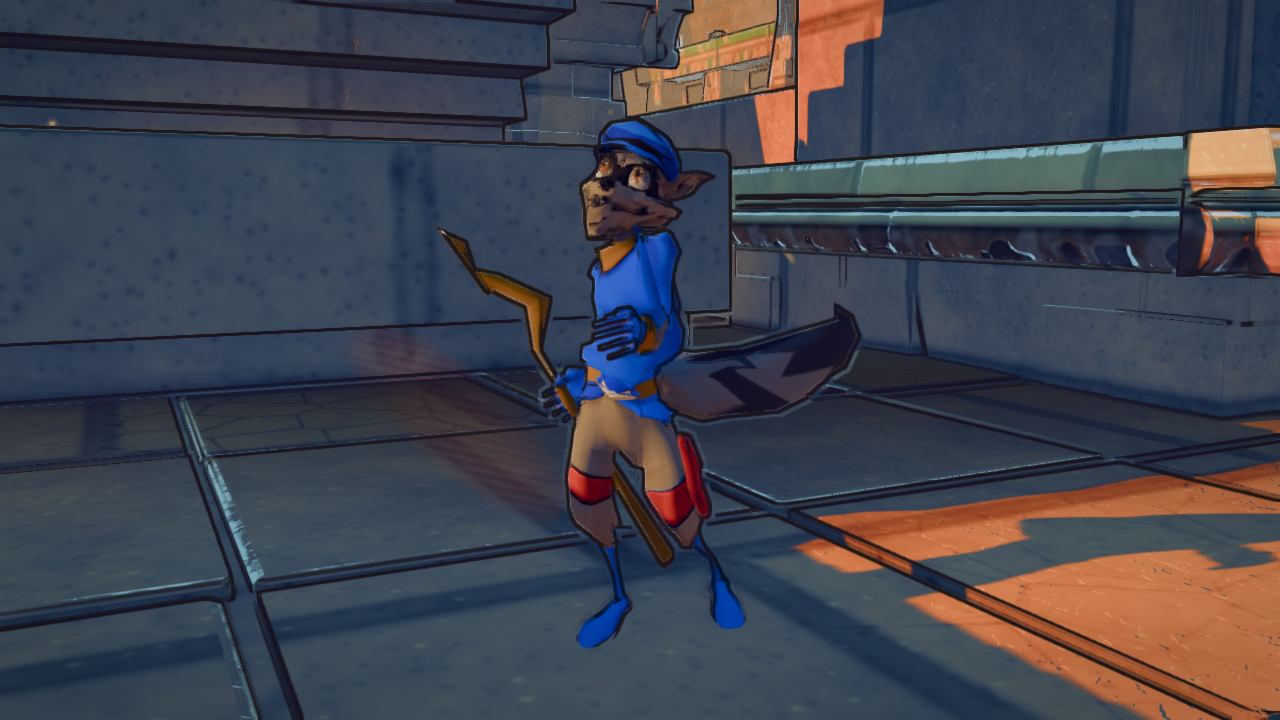
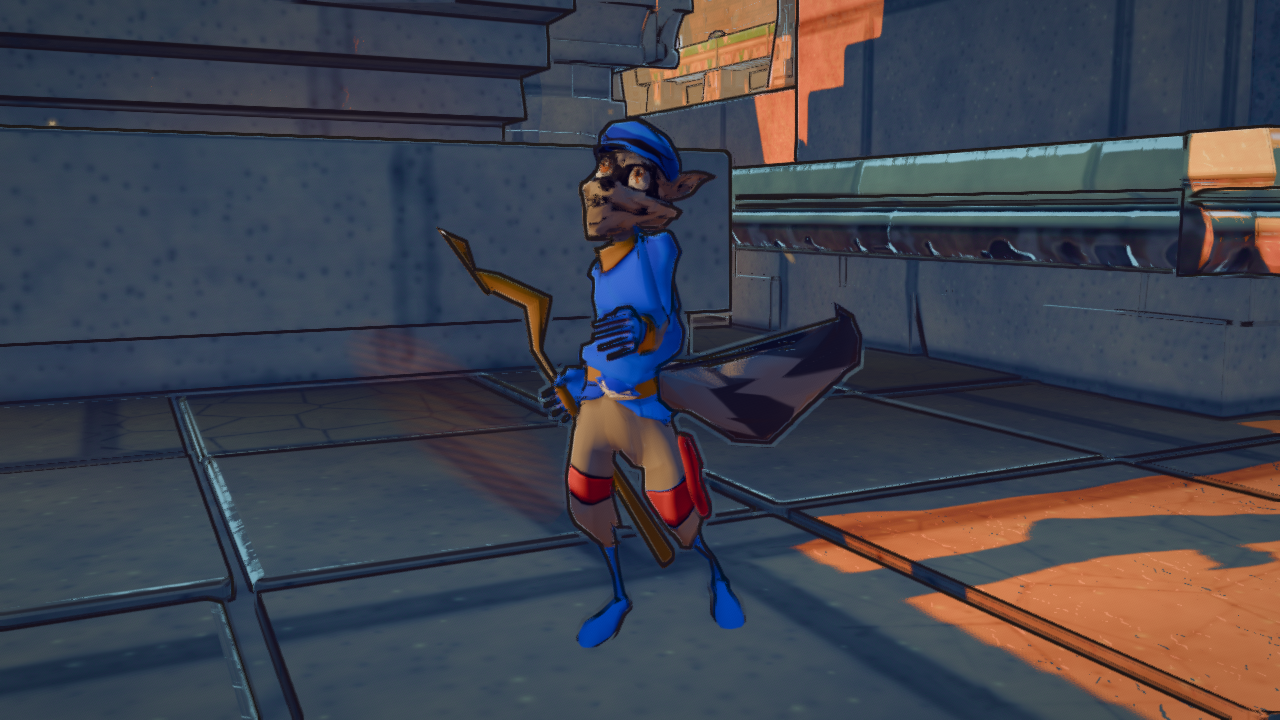
SlyModelDLRaw: the supplied model exactly as imported, textured (?char=dlraw)
The soft-tail weighting did not fix the animated tail either, which is the
condition set for stopping: put the textures on the model as supplied rather
than keep revising the altered one.

So this is a sibling, not a replacement - SlyModelDL keeps the full rigged
integration untouched, and neither approach costs the other.

What it does: the asset's geometry vertex for vertex, its authored normals,
its four textures. No re-posing out of the T-pose, no auto-skin, no weight
shaping, no normal recomputation. The only transform is feet-to-floor plus the
uniform scale to the world's 1.80m character height (the asset stands 1.853m,
so it is near identity, and a character the wrong size against the
architecture is not faithful in any useful sense).

The 16 non-finite triangles are still dropped, and that is recovery rather
than revision: OBJLoader manufactures those NaNs by resolving a face index
against its vertex array mid-parse, and one NaN vertex propagates through the
bounding box into every position, rendering nothing at all.

How it moves, stated plainly as a limitation: the full skeleton is built so
ANIMATION and Rig bind normally, but every vertex is rigid to hips, so the
model is carried by the character and never deformed by it. It holds its
authored T-pose. Arms out is how the asset is built, and bringing them down is
the alteration this file exists to avoid.

dlsmoke now takes the character token as an argument so both can be captured
[…]

Changed region(s): [[0.5, 0.4583, 0.6875, 0.6111], [0.7812, 0.7028, 0.8125, 0.7639], [0.9375, 0.7028, 0.9688, 0.7333]]

diff --git a/src/player/SlyModelDLRaw.js b/src/player/SlyModelDLRaw.js
@@ -1,0 +1,190 @@
+/**
+ * SlyModelDLRaw — the supplied Sly model EXACTLY as imported, textured, and otherwise untouched.
+ *
+ * Reached under `?char=dlraw`. This exists because six successive attempts to make the imported
+ * mesh deform correctly on the project's rig each failed on the tail, and the instruction was to
+ * stop revising the mesh and simply put the textures on the model as supplied.
+ *
+ * WHAT IS AND IS NOT DONE HERE. The geometry is the asset's own, vertex for vertex: no
+ * re-posing out of its T-pose, no auto-skin, no weight shaping, no normal recomputation — the
+ * authored normals are kept as they came. The only transform is the uniform scale that fits it to
+ * the world's 1.80 m character height, plus dropping the feet to the floor. Even the scale is
+ * near-identity (the asset stands 1.853 m), and it is applied because a character that is the
+ * wrong size against the architecture is not "faithful" in any useful sense.
+ *
+ * The 16 triangles with non-finite corners are still dropped. That is not a revision of the
+ * model: OBJLoader manufactures those NaNs by resolving a face index against its vertex array as
+ * it stands mid-parse, and a single NaN vertex propagates through the bounding box into every
+ * position, rendering nothing at all. Dropping them recovers the asset; keeping them loses it.
+ *
+ * HOW IT MOVES, stated plainly because it is a real limitation rather than a detail. The full
+ * project skeleton is built so ANIMATION and Rig bind and run as they expect, but every vertex is
+ * weighted rigidly to `hips`. The model therefore translates and turns with the character and is
+ * never deformed by a pose — it holds the T-pose it was authored in. That is the honest cost of
+ * "unrevised": the arms are out because that is how the asset is built, and bringing them down is
+ * exactly the kind of alteration this file exists to avoid.
+ *
+ * `SlyModelDL.js` keeps the full rigged integration and is unchanged; this is a sibling, not a
+ * replacement, so neither approach costs the other.
+ */
+import * as THREE from 'three';
+import { OBJLoader } from 'three/examples/jsm/loaders/OBJLoader.js';
+import { mergeGeometries } from 'three/examples/jsm/utils/BufferGeometryUtils.js';
+import { RIG3 } from './SlyModel3.js';
+
+const MESH_URL = new URL('../assets/sly-dl/sly.obj', import.meta.url);
+const TEX_FILES = import.meta.glob('../assets/sly-dl/*.png', { eager: true, query: '?url', import: 'default' });
+
+const TEX_FOR = { Sly_Body: 'sly_body', Sly_Eyeball: 'sly_eyeball', Sly_Head: 'sly_head', Sly_Tail: 'sly_tail' };
+const FALLBACK = { Sly_Body: 0x2f5fc4, Sly_Eyeball: 0xd9821a, Sly_Head: 0xcfcdc4, Sly_Tail: 0x8d8b84 };
+
+function textureFor(matName) {
+  const stem = TEX_FOR[matName];
+  if (!stem) return null;
+  const key = Object.keys(TEX_FILES).find((k) => k.endsWith(`/${stem}.png`));
+  return key ? TEX_FILES[key] : null;
+}
+
+/* Same recovery as the rigged path — see the header for why this is not a revision. */
+function dropNonFiniteTriangles(g) {
+  const pos = g.attributes.position;
+  const tris = pos.count / 3;
+  const keep = [];
+  for (let t = 0; t < tris; t++) {
+    let ok = true;
+    for (let k = 0; k < 3 && ok; k++) {
+      const i = (t * 3 + k) * 3;
+      if (!Number.isFinite(pos.array[i]) || !Number.isFinite(pos.array[i + 1]) || !Number.isFinite(pos.array[i + 2])) ok = false;
+    }
+    if (ok) keep.push(t);
+  }
+  if (keep.length === tris) return { geo: g, dropped: 0 };
+  const out = new THREE.BufferGeometry();
+  for (const name of Object.keys(g.attributes)) {
+    const a = g.attributes[name], n = a.itemSize, span = 3 * n;
+    const arr = new a.array.constructor(keep.length * span);
+    for (let j = 0; j < keep.length; j++) arr.set(a.array.subarray(keep[j] * span, keep[j] * span + span), j * span);
+    out.setAttribute(name, new THREE.BufferAttribute(arr, n));
+  }
+  return { geo: out, dropped: tris - keep.length };
+}
+
+export class SlyModel {
+  constructor(engine) {
+    this.engine = engine;
+    this.root = new THREE.Group();
+    this.root.name = 'slydlraw';
+    this.bones = {};
+    this.boneNames = RIG3.BONE_ORDER;
+    this.mesh = null;
+    this._bindWorld = {};
+    this._restQ = {};
+  }
+
+  async init() {
+    /* Skeleton: built in full so ANIMATION/Rig bind and run normally. Nothing is weighted to it
+       except hips, so it drives the model's placement and never its shape. */
+    const abs = {};
+    for (const [name, parent, p] of RIG3.SKELETON) {
+      const b = new THREE.Bone();
+      b.name = name;
+      const parAbs = parent === 'root' ? [0, 0, 0] : abs[parent];
+      b.position.set(p[0] - parAbs[0], p[1] - parAbs[1], p[2] - parAbs[2]);
+      abs[name] = p;
+      (parent === 'root' ? this.root : this.bones[parent]).add(b);
+      this.bones[name] = b;
+      this._bindWorld[name] = new THREE.Vector3(p[0], p[1], p[2]);
+    }
+    const boneList = RIG3.BONE_ORDER.map((n) => this.bones[n]);
+    const skeleton = new THREE.Skeleton(boneList);
+
+    const obj = await new OBJLoader().loadAsync(MESH_URL.href);
+    obj.updateMatrixWorld(true);
+
+    const geos = [], matNames = [];
+    obj.traverse((o) => {
+      if (!o.isMesh || !o.geometry?.attributes?.position) return;
+      let g = o.geometry.clone();
+      g.applyMatrix4(o.matrixWorld);
+      if (g.index) g = g.toNonIndexed();
+      const r = dropNonFiniteTriangles(g);
+      geos.push(r.geo);
+      matNames.push((Array.isArray(o.material) ? o.material[0] : o.material)?.name ?? `mat${geos.length}`);
+    });
+    if (!geos.length) throw new Error('SlyModelDLRaw: asset has no meshes');
+
+    for (const g of geos) {
+      if (!g.attributes.uv) g.setAttribute('uv', new THREE.Float32BufferAttribute(new Float32Array(g.attributes.position.count * 2), 2));
+      if (!g.attributes.normal) g.computeVertexNormals();     // only if the asset supplied none
+      for (const k of Object.keys(g.attributes)) if (!['position', 'normal', 'uv'].includes(k)) g.deleteAttribute(k);
+    }
+    const merged = mergeGeometries(geos, true);
+
+    /* The only transform: feet to the floor, uniform scale to the world's character height. */
+    merged.computeBoundingBox();
+    const bb = merged.boundingBox;
+    if (![bb.min.y, bb.max.y].every(Number.isFinite) || !(bb.max.y > bb.min.y)) {
+      throw new Error('SlyModelDLRaw: non-finite or degenerate bounding box — refusing to scale');
+    }
+    const s = RIG3.TUNE.height / (bb.max.y - bb.min.y);
+    merged.translate(0, -bb.min.y, 0);
+    merged.scale(s, s, s);
+
+    /* Rigid to hips: the model is carried by the character, never reshaped by it. */
+    const n = merged.attributes.position.count;
+    const hips = RIG3.BONE_ORDER.indexOf('hips');
+    const bidx = new Uint16Array(n * 4);
+    const bwt = new Float32Array(n * 4);
+    for (let i = 0; i < n; i++) { bidx[i * 4] = hips; bwt[i * 4] = 1; }
+    merged.setAttribute('skinIndex', new THREE.Uint16BufferAttribute(bidx, 4));
+    merged.setAttribute('skinWeight', new THREE.Float32BufferAttribute(bwt, 4));
+
+    const shading = this.engine?.get?.('shading');
+    const T = RIG3.TUNE;
+    const loader = new THREE.TextureLoader();
+    const missing = [];
+    const materials = matNames.map((nm) => {
+      const url = textureFor(nm);
+      if (!url) missing.push(nm);
+      let map = null;
+      if (url) {
+        map = loader.load(url);
+        map.colorSpace = THREE.SRGBColorSpace;
+        map.anisotropy = 4;
+      }
+      return shading?.make
+        ? shading.make({
+          name: `slydlraw:${nm}`, color: map ? 0xffffff : (FALLBACK[nm] ?? 0xcccccc), map,
+          bands: T.bands, rim: T.rim, rimColor: T.rimColor, sss: T.furSSS,
+          outline: T.outline, outlineColor: T.outlineColor,
+        })
+        : new THREE.MeshStandardMaterial({ color: map ? 0xffffff : (FALLBACK[nm] ?? 0xcccccc), map, roughness: 0.85 });
+    });
+    if (missing.length) this.engine?.warn?.(`SlyModelDLRaw: no texture for ${missing.join(', ')}`);
+
+    this.mesh = new THREE.SkinnedMesh(merged, materials.length === 1 ? materials[0] : materials);
+    this.mesh.name = 'slydlraw:mesh';
+    this.mesh.castShadow = true;
+    this.mesh.receiveShadow = true;
+    this.mesh.frustumCulled = false;
+    this.root.add(this.mesh);
+    this.mesh.add(boneList[0]);
+    this.mesh.bind(skeleton);
+
+    this.root.userData.height = RIG3.TUNE.height;
+    this.root.userData.faithful = true;
+    this.root.updateMatrixWorld(true);
+    for (const nm of RIG3.BONE_ORDER) this._restQ[nm] = this.bones[nm].quaternion.clone();
+    this.engine?.scene?.add(this.root);
+  }
+
+  bp(name) { return this._bindWorld[name]; }
+  update() { /* nothing: the model is carried by hips and never reshaped */ }
+  dispose() {
+    this.mesh?.geometry?.dispose?.();
+    const mm = this.mesh?.material;
+    (Array.isArray(mm) ? mm : [mm]).forEach((x) => { x?.map?.dispose?.(); x?.dispose?.(); });
+    this.root.parent?.remove(this.root);
+    this.mesh = null;
+  }
+}

diff --git a/src/main.js b/src/main.js
@@ -38,6 +38,10 @@ const CHAR_MODELS = {
      skeleton — see SlyModelDL.js's header. Becomes the default when the real asset replaces the
      placeholder in src/assets/sly-dl.glb and a ?char=dl capture verifies it. */
   dl: ['./player/SlyModelDL.js', 'SlyModel'],
+  /* The supplied model EXACTLY as imported, textured, with none of the rigging revisions — see
+     SlyModelDLRaw.js. Holds its authored T-pose and is carried by the character rather than
+     deformed by it. */
+  dlraw: ['./player/SlyModelDLRaw.js', 'SlyModel'],
 };
 function characterModule() {
   let raw = '';
